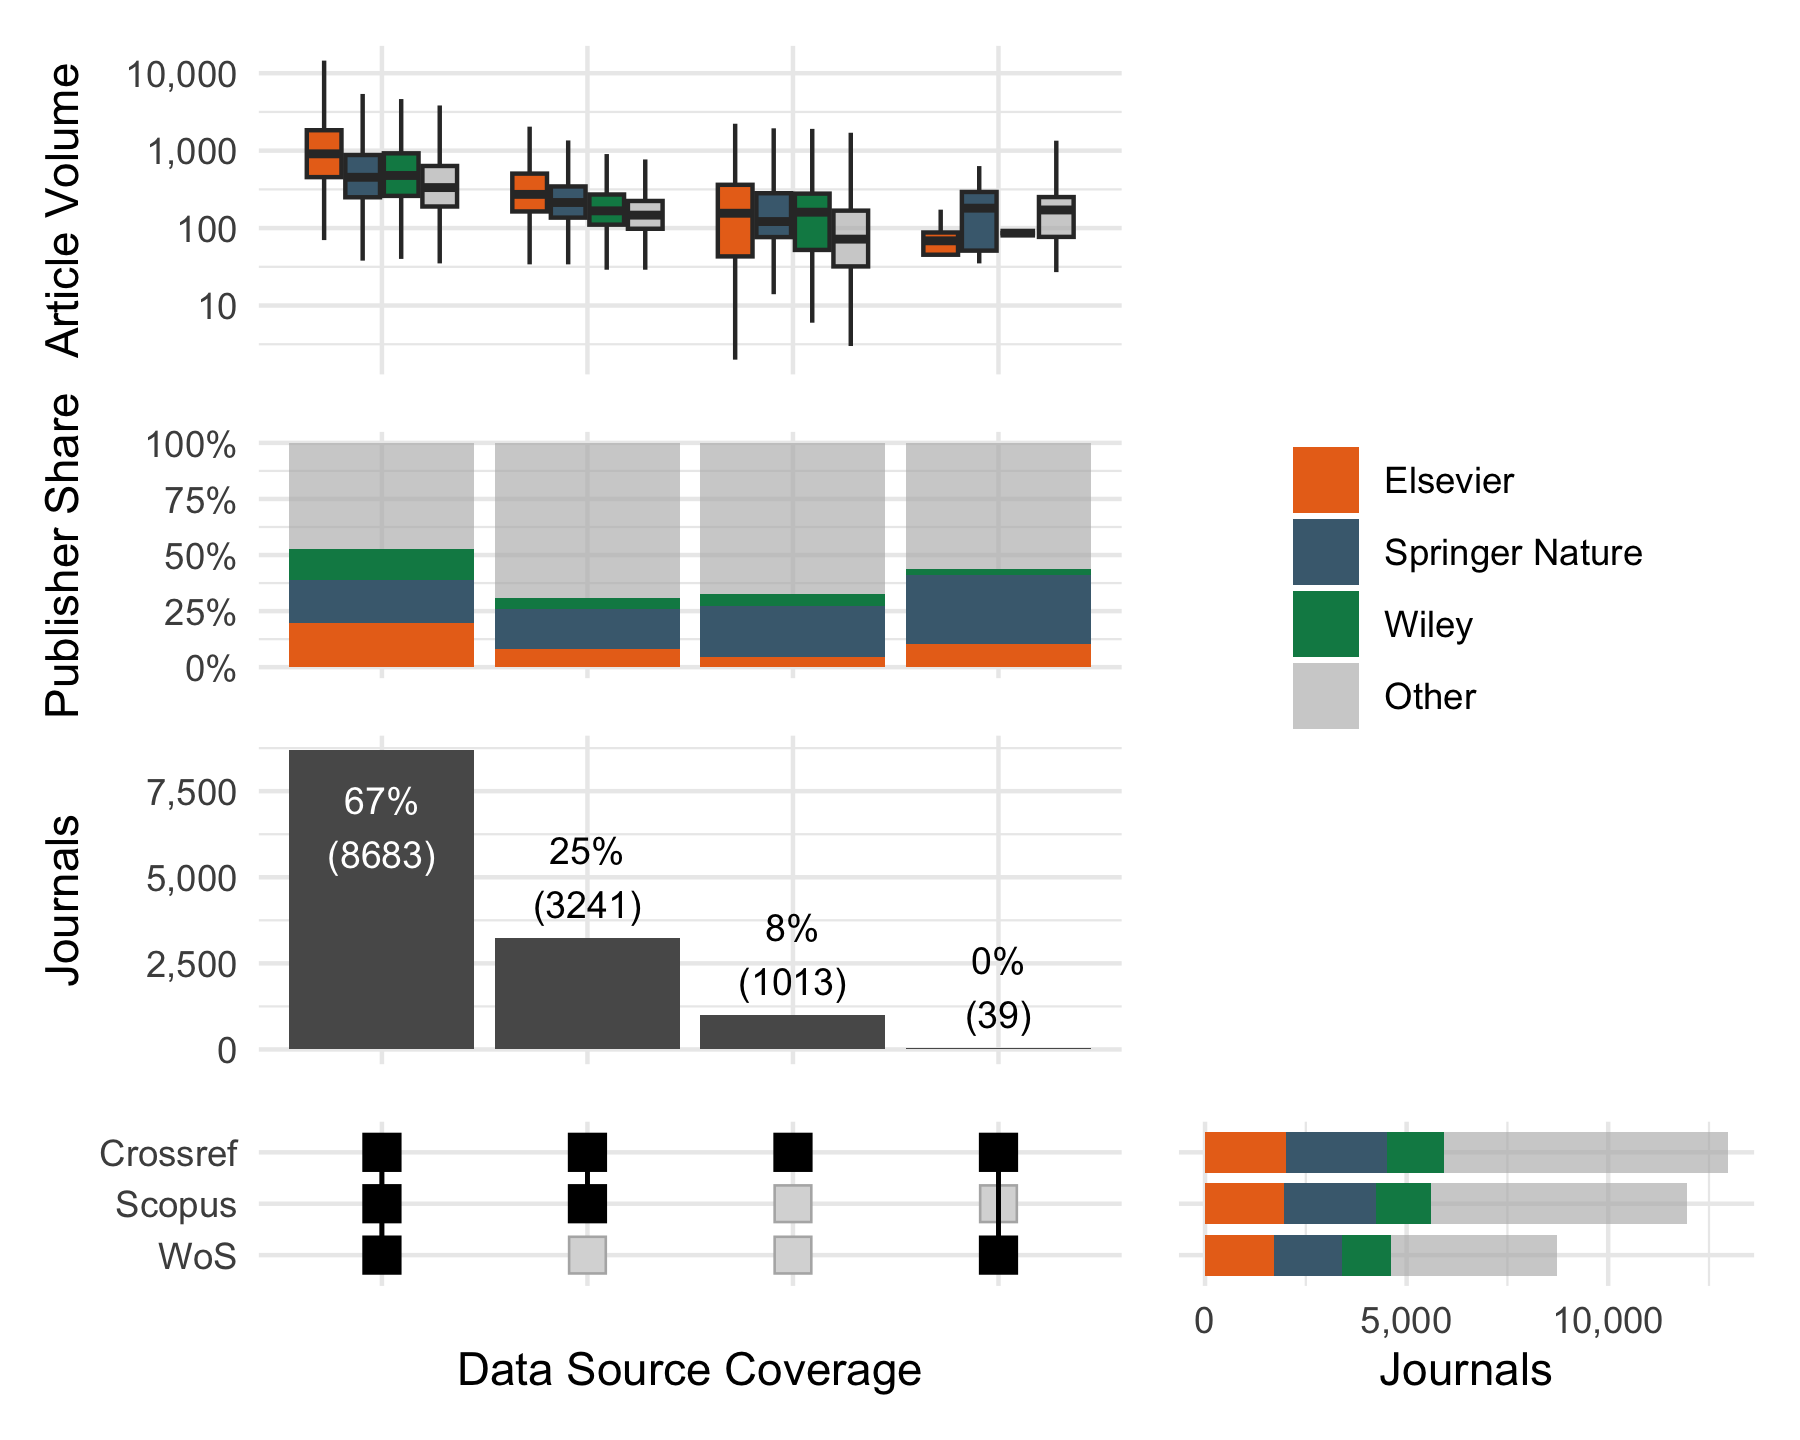
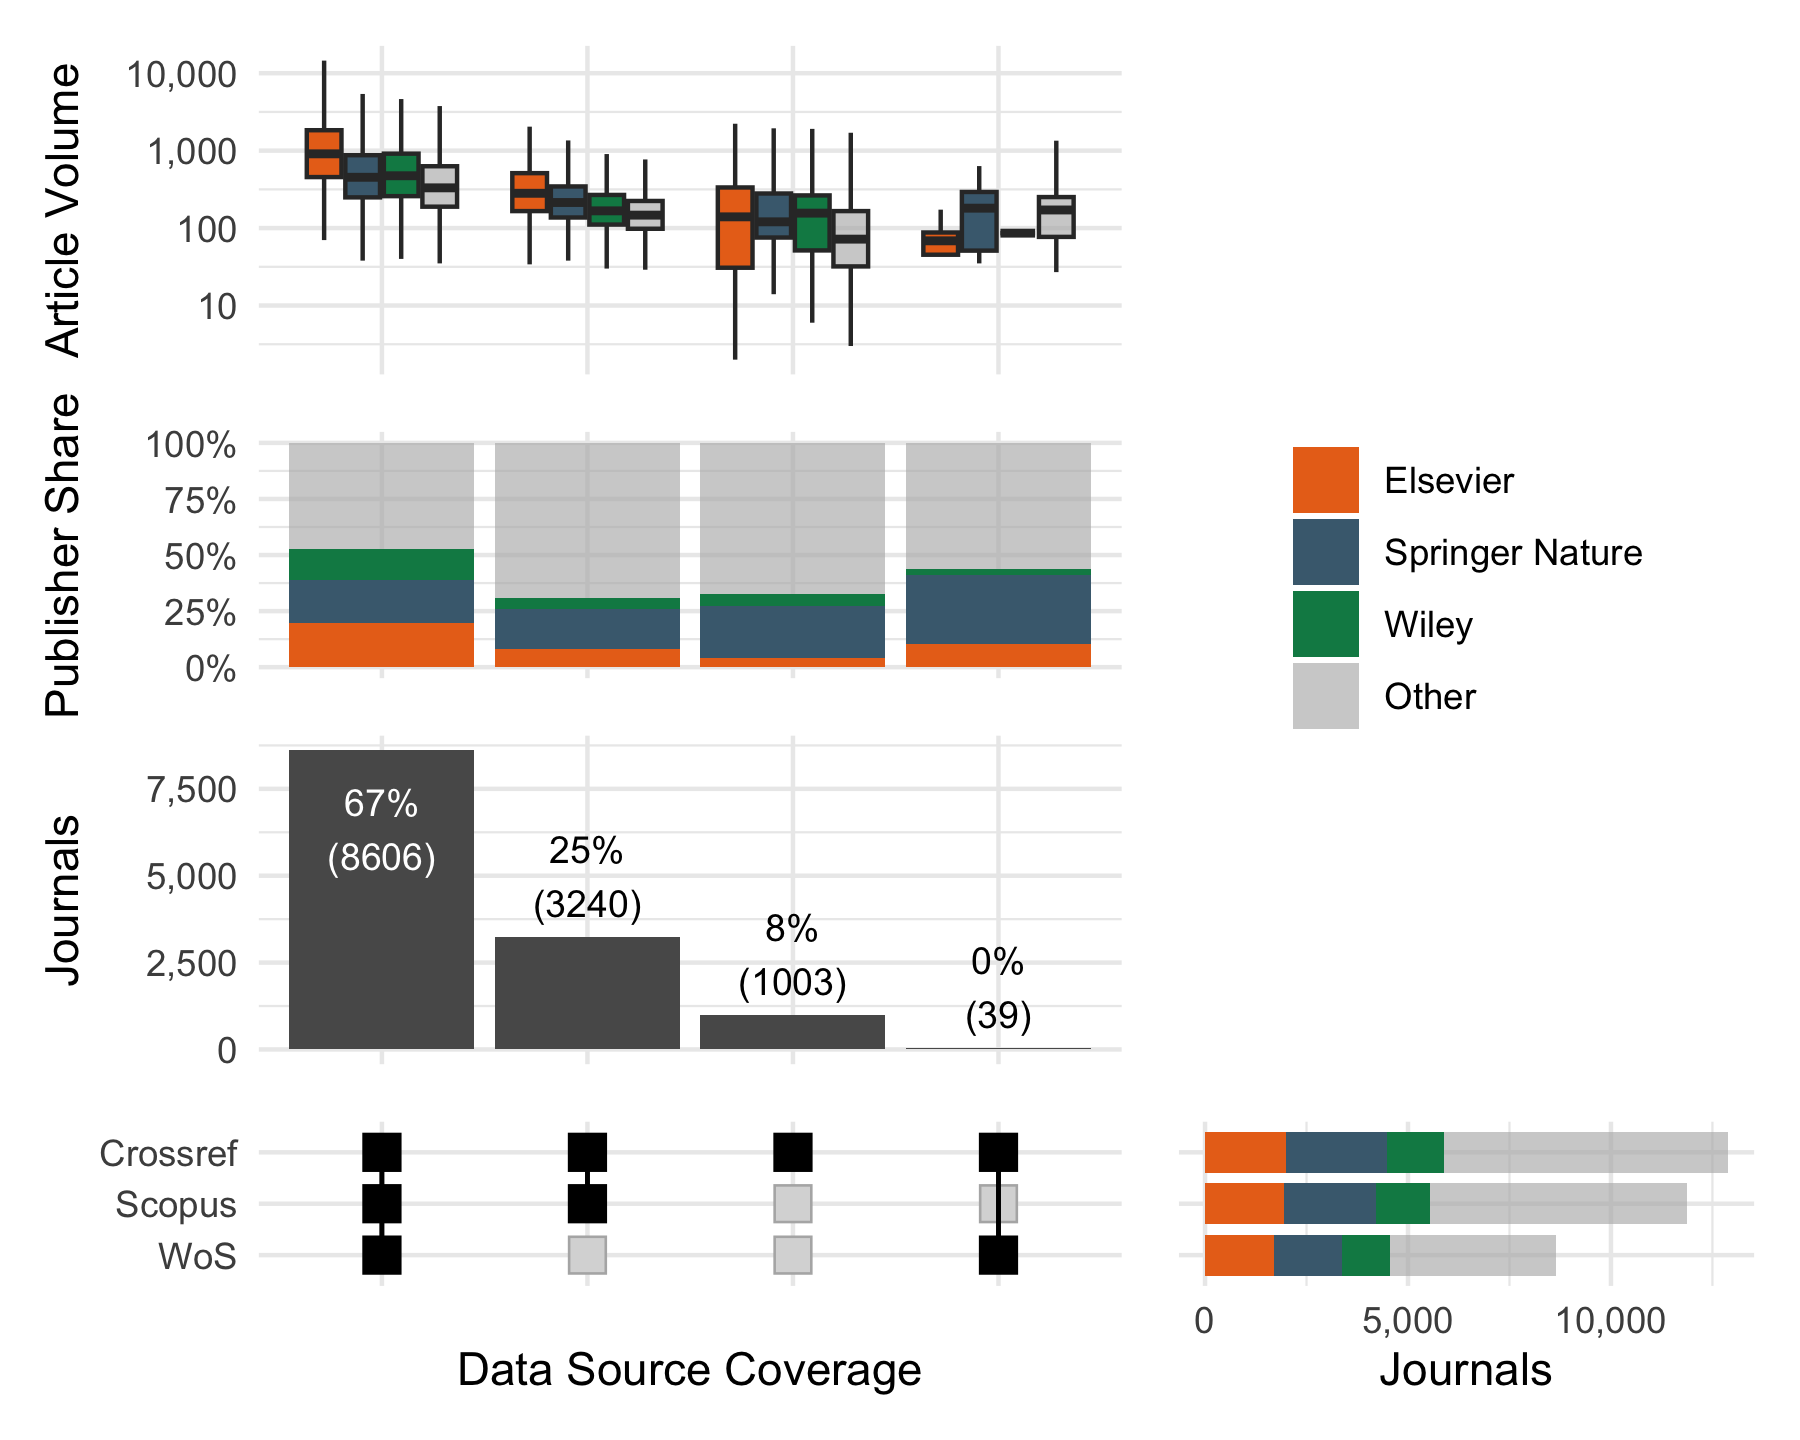
More upsets :-)

diff --git a/analysis/results.md b/analysis/results.md
@@ -5,6 +5,8 @@ Results
 library(bigrquery)
 library(tidyverse)
 library(hoaddata)
+library(patchwork)
+
 #' Connect to DB 
 #' 
 #' BigQuery HOAD (Crossref, OpenAlex and open friends)
@@ -290,11 +292,11 @@ cr_active_upset <- cr_df |>
   group_by(issn_l) |>
   summarise(n_cr = n_distinct(doi)) |>
   mutate(Crossref = TRUE)
-wos_active_upset <- wos_active_core |>
+wos_active_upset <- wos_active_jns |>
   group_by(issn_l) |>
   summarise(n_wos = n_distinct(item_id)) |>
   mutate(WoS = TRUE)
-scp_active_upset <- scp_active_core |>
+scp_active_upset <- scp_active_jns |>
   group_by(issn_l) |>
   summarise(n_scp = n_distinct(item_id)) |>
   mutate(Scopus = TRUE)
@@ -334,7 +336,8 @@ esac <- hoaddata::jct_hybrid_jns |>
   distinct(issn_l, publisher)
 
 library(ComplexUpset)
-jn_upset <- left_join(jn_upset_, esac, by = "issn_l")
+jn_upset <- inner_join(jn_upset_, esac, by = "issn_l") |>
+  distinct(issn_l, .keep_all = TRUE)
 
 size = get_size_mode('exclusive_intersection')
 
@@ -425,3 +428,161 @@ jn_age <- jn_ind |>
             max_year = max(cr_year)) |>
   mutate(jn_age = max_year - min_year + 1) 
 ```
+
+### DOI coverage
+
+``` r
+jn_overlap <- jn_upset |> 
+  filter(Crossref == TRUE, WoS == TRUE, Scopus == TRUE)
+
+miss_doi <- cr_df |>
+  filter(issn_l %in% jn_overlap$issn_l) |> 
+  filter(!doi %in% wos_active_core$doi)
+
+# Check if it is in WOS (full)
+wos_type_diff <- wos_jct_items_df |>
+  filter(doi %in% miss_doi$doi) 
+
+miss_doi |>
+  filter(!doi %in% wos_type_diff$doi) |>
+  sample_n(10)
+#> # A tibble: 10 × 3
+#>    doi                                 issn_l    cr_year
+#>    <chr>                               <chr>       <dbl>
+#>  1 10.1016/j.recesp.2022.12.014        0300-8932    2023
+#>  2 10.1021/jyv123i047_1331967          1932-7447    2019
+#>  3 10.1039/c9nr90077b                  2040-3364    2019
+#>  4 10.1016/j.jesp.2022.104383          0022-1031    2022
+#>  5 10.1136/vr.l720                     0042-4900    2019
+#>  6 10.1200/jco.2022.40.16_suppl.e16139 0732-183X    2022
+#>  7 10.1016/j.ophtha.2022.03.004        0161-6420    2022
+#>  8 10.1007/s10339-023-01157-x          1612-4782    2023
+#>  9 10.1021/csv009i006_1286279          2155-5435    2019
+#> 10 10.1097/01.ccm.0000552039.13386.82  0090-3493    2019
+```
+
+### Add Article Coverage
+
+- hoaddata: Crossref exclunding paratext and proceedings as indicated by
+  pattern macthing. Patterns mostly from Unpaywall / OpenAlex
+- WoS: All DOIs / DOIS only article and reviews
+- Scopus: All DOIs / DOIS only article and reviews
+
+``` r
+ doi_overlap_df <- cr_df |>
+  filter(issn_l %in% active_jns$issn_l) |>
+  mutate(in_wos_and_scopus = ifelse(doi %in% wos_active_jns$doi & doi %in% scp_active_jns$doi, 1, 0),
+         in_scopus = ifelse(doi %in% scp_active_jns$doi, 1, 0),
+         in_wos =  ifelse(doi %in% wos_active_jns$doi, 1, 0))
+doi_overlap <- doi_overlap_df |>
+  group_by(issn_l) |>
+  summarise(
+    doi_in_wos_and_scopus = sum(in_wos_and_scopus),
+    doi_in_scopus = sum(in_scopus),
+    doi_in_wos = sum(in_wos))
+
+jn_upset_articles <- jn_upset |> 
+  left_join(doi_overlap, by = "issn_l") 
+
+
+### Plot
+size = get_size_mode('exclusive_intersection')
+
+upset_overview <- ComplexUpset::upset(
+  jn_upset_articles,
+  c("Crossref", "WoS", "Scopus"),
+  # Only journals in Crossref
+  min_size = 30,
+  width_ratio = 0.4,
+  set_sizes=FALSE,
+  stripes = "transparent",
+  wrap = TRUE,
+  name = "Data Source Coverage",
+  base_annotations = list(
+    "Journals" = (
+      ComplexUpset::intersection_size(
+        counts = TRUE,
+        text = list(size = 9 / .pt),
+        text_mapping = aes(
+          label = paste0(!!upset_text_percentage(), '\n(', !!size, ')'),
+          colour = ifelse(!!size > 5000, 'on_bar', 'on_background'),
+          y = ifelse(!!size > 5000, !!size - 4000, !!size)
+        )
+      ) +
+        scale_y_continuous(labels = scales::number_format(big.mark = ","))
+    )
+  ),
+  annotations = list("Journal size\n(log scale)" = (
+    ggplot(mapping = aes(x = intersection, y = n)) +
+      geom_boxplot(outliers = FALSE) +
+      scale_y_log10(labels =  scales::number_format(big.mark = ","))),
+    "Articles" = (ggplot(mapping = aes(y = n_cr)) +
+                        geom_bar(stat = "identity", color = "grey80", aes(fill = "in Crossref only")) +
+                        geom_bar(aes(y = doi_in_wos_and_scopus, fill = "Shared"), stat = "identity", color = "#0093c7") +
+                        geom_bar(aes(y = doi_in_wos, fill = "Shared"), stat = "identity", color = "#0093c7") +
+                        geom_bar(aes(y = doi_in_scopus, fill = "Shared"), stat = "identity", color = "#0093c7") +
+                        scale_fill_manual(values = c(`in Crossref only` = "grey80", `Shared` = "#0093c7"), name = "") +
+                        scale_y_continuous(labels =  scales::number_format(big.mark = ",")) +
+                        theme(
+    legend.position = "top",
+    legend.justification = "right"
+  ) +
+    guides(fill = "none")
+    )),
+   matrix = (
+        intersection_matrix(
+            geom = geom_point(
+                shape = "square",
+                size = 2
+            )))
+        ) 
+upset_overview
+```
+
+<img src="results_files/figure-gfm/unnamed-chunk-7-1.png" width="70%" style="display: block; margin: auto;" />
+
+``` r
+doi_coverage_over_years <- doi_overlap_df |>
+  group_by(cr_year) |>
+  summarise(dois = n_distinct(doi),
+            in_wos_and_scopus = sum(in_wos_and_scopus, na.rm = TRUE),
+            in_scopus = sum(in_scopus, na.rm = TRUE),
+            in_wos = sum(in_wos)) |>
+  pivot_longer(cols = c(dois, in_wos_and_scopus, in_scopus, in_wos)) |>
+  mutate(cr_year = gsub("^20", "'", as.character(cr_year)))
+
+# dois all
+dois_all_by_year <- doi_coverage_over_years |>
+  filter(name == "dois") |>
+  select(-name)
+
+coverage_over_year_plot <- doi_coverage_over_years |>
+  filter(name != "dois") |>
+  # Fix order of panel
+  mutate(name = factor(name, levels = c("in_wos_and_scopus", "in_scopus", "in_wos"))) |>
+  ggplot(aes(x = cr_year, y = value)) +
+  geom_bar(data = dois_all_by_year, aes(fill = "in Crossref only"), color = "transparent", stat = "identity") +
+  geom_bar(aes(fill = "Shared"), color = "transparent", stat = "identity") +
+  facet_wrap( ~ name, ncol = 1) +
+  scale_fill_manual(values = c("grey80", "#0093c7"), name = "") +
+  scale_y_continuous(labels =  scales::number_format(big.mark = ",")) +
+  labs(x = "Year published", y = "Articles with DOI") + 
+  theme_minimal() +
+  theme(legend.position = "top",
+        legend.justification = "right") 
+coverage_over_year_plot
+```
+
+<img src="results_files/figure-gfm/dois_over_the_years-1.png" width="70%" style="display: block; margin: auto;" />
+
+``` r
+design = "AB"
+wrap_plots(
+  A = upset_overview,
+  B = coverage_over_year_plot,
+  design = design,
+  widths = c(3.5,1)
+) & plot_annotation(tag_levels = 'A') 
+```
+
+<img src="results_files/figure-gfm/coverage_upset_patch-1.png" width="70%" style="display: block; margin: auto;" />
